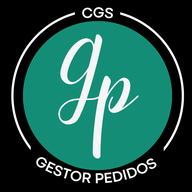
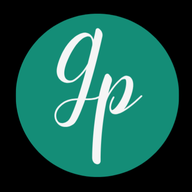
Add files via upload

Changed region(s): [[0.0312, 0.0312, 0.9688, 0.9688]]

diff --git a/sw.js b/sw.js
@@ -1,4 +1,4 @@
-const CACHE = 'gestor-cgs-v30';
+const CACHE = 'gestor-cgs-v31';
 const FILES = ['./GestorPedidosCGS.html', './manifest.json'];
 self.addEventListener('install', e => { e.waitUntil(caches.open(CACHE).then(c => c.addAll(FILES))); self.skipWaiting(); });
 self.addEventListener('activate', e => { e.waitUntil(caches.keys().then(keys => Promise.all(keys.filter(k => k !== CACHE).map(k => caches.delete(k))))); self.clients.claim(); });